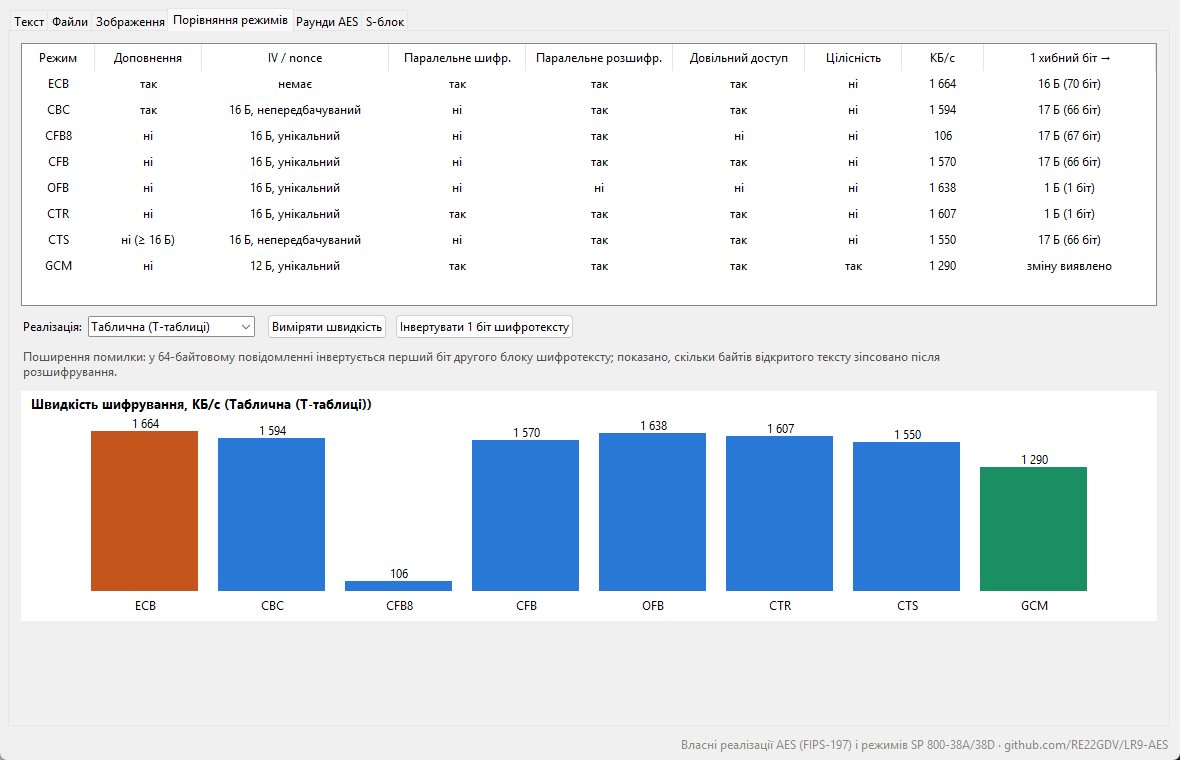
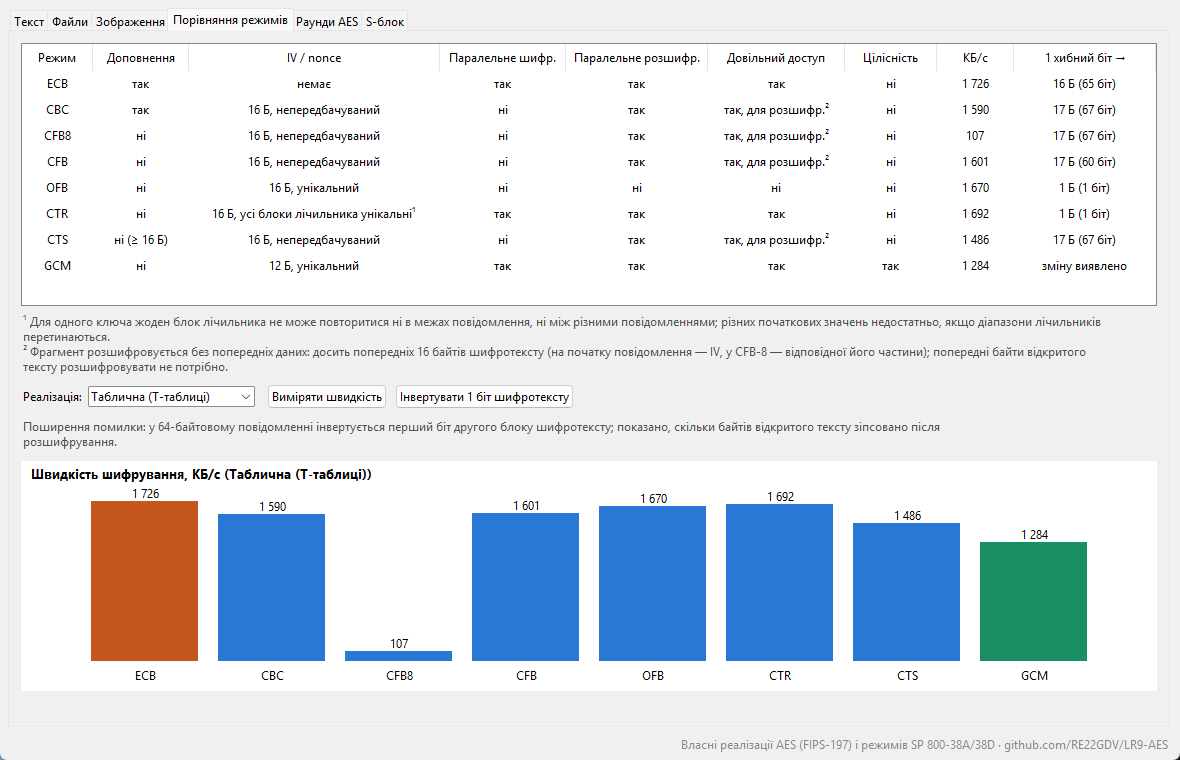
Фіксований 16-байтовий тег GCM, уточнено таблицю властивостей режимів
- gcm_decrypt перевіряє довжину тегу до порівняння: порожній або
  скорочений тег більше не приймається (SP 800-38D); gcm_encrypt
  відхиляє tag_len, відмінний від 16; тести на порожній, 1-, 12-,
  15- і 17-байтовий тег.
- Таблиця властивостей: IV у CFB-8/CFB-128 непередбачуваний; у CTR
  унікальними мають бути всі блоки лічильника для ключа; довільний
  доступ у CBC, CFB-8, CFB-128 і CTS — для розшифрування; примітки
  виведено у вкладці «Порівняння режимів» і в README.
- Обережніше формулювання результату перевірки строгого лавинного
  критерію; одне вікно GUI на модуль тестів.

diff --git a/src/aeslab/analysis.py b/src/aeslab/analysis.py
@@ -11,16 +11,25 @@ from .aes import AES
 PROPERTIES = {
     #        доповнення, IV/nonce, паралельне шифр., паралельне розшифр., довільний доступ, цілісність
     "ECB":  ("так", "немає", "так", "так", "так", "ні"),
-    "CBC":  ("так", "16 Б, непередбачуваний", "ні", "так", "так", "ні"),
-    "CFB8": ("ні", "16 Б, унікальний", "ні", "так", "ні", "ні"),
-    "CFB":  ("ні", "16 Б, унікальний", "ні", "так", "так", "ні"),
+    "CBC":  ("так", "16 Б, непередбачуваний", "ні", "так", "так, для розшифр.²", "ні"),
+    "CFB8": ("ні", "16 Б, непередбачуваний", "ні", "так", "так, для розшифр.²", "ні"),
+    "CFB":  ("ні", "16 Б, непередбачуваний", "ні", "так", "так, для розшифр.²", "ні"),
     "OFB":  ("ні", "16 Б, унікальний", "ні", "ні", "ні", "ні"),
-    "CTR":  ("ні", "16 Б, унікальний", "так", "так", "так", "ні"),
-    "CTS":  ("ні (≥ 16 Б)", "16 Б, непередбачуваний", "ні", "так", "так", "ні"),
+    "CTR":  ("ні", "16 Б, усі блоки лічильника унікальні¹", "так", "так", "так", "ні"),
+    "CTS":  ("ні (≥ 16 Б)", "16 Б, непередбачуваний", "ні", "так", "так, для розшифр.²", "ні"),
     "GCM":  ("ні", "12 Б, унікальний", "так", "так", "так", "так"),
 }
 PROPERTY_NAMES = ("Доповнення", "IV / nonce", "Паралельне шифрування",
                   "Паралельне розшифрування", "Довільний доступ", "Цілісність")
+# Примітки до позначок ¹ і ² у таблиці властивостей (SP 800-38A, розділ 6 і додаток B).
+PROPERTY_NOTES = (
+    "¹ Для одного ключа жоден блок лічильника не може повторитися ні в межах "
+    "повідомлення, ні між різними повідомленнями; різних початкових значень "
+    "недостатньо, якщо діапазони лічильників перетинаються.",
+    "² Фрагмент розшифровується без попередніх даних: досить попередніх 16 байтів "
+    "шифротексту (на початку повідомлення — IV, у CFB-8 — відповідної його "
+    "частини); попередні байти відкритого тексту розшифровувати не потрібно.",
+)
 
 
 def hamming(a, b) -> int:

diff --git a/src/aeslab/gui.py b/src/aeslab/gui.py
@@ -44,10 +44,10 @@ MODE_TITLES = {
 MODE_NOTES = {
     "ECB": "Однакові блоки відкритого тексту дають однакові блоки шифротексту — структура даних видна.",
     "CBC": "Потрібен непередбачуваний IV. Без MAC зміни шифротексту не виявляються.",
-    "CFB8": "Потоковий режим без доповнення; помилка зачіпає ще 16 наступних байтів.",
-    "CFB": "Потоковий режим без доповнення; nonce/IV не можна повторювати.",
+    "CFB8": "Потоковий режим без доповнення; IV непередбачуваний, помилка зачіпає ще 16 байтів.",
+    "CFB": "Потоковий режим без доповнення; потрібен непередбачуваний IV.",
     "OFB": "Ключовий потік не залежить від даних; повторний IV розкриває XOR текстів.",
-    "CTR": "Блоки незалежні: можна шифрувати паралельно й читати з будь-якого місця.",
+    "CTR": "Блоки незалежні, але для ключа жоден блок лічильника не повторюється, і між повідомленнями теж.",
     "CTS": "Довжина шифротексту дорівнює довжині тексту (не менше 16 байтів).",
     "GCM": "Автентифіковане шифрування: будь-яка зміна шифротексту виявляється.",
 }
@@ -553,13 +553,15 @@ class CompareTab(ttk.Frame):
         heads = ("Режим", "Доповнення", "IV / nonce", "Паралельне шифр.",
                  "Паралельне розшифр.", "Довільний доступ", "Цілісність",
                  "КБ/с", "1 хибний біт →")
-        widths = (60, 95, 175, 125, 135, 120, 85, 70, 160)
+        widths = (60, 85, 240, 115, 130, 125, 80, 65, 130)
         for c, h, w in zip(cols, heads, widths):
             self.tree.heading(c, text=h)
             self.tree.column(c, width=w, anchor="center")
         for m in modes.MODES:
             self.tree.insert("", "end", iid=m, values=(m,) + analysis.PROPERTIES[m] + ("—", "—"))
         self.tree.pack(fill="x")
+        ttk.Label(self, text="\n".join(analysis.PROPERTY_NOTES), foreground="#52514e",
+                  wraplength=1100, justify="left").pack(anchor="w", pady=(6, 0))
         bar = ttk.Frame(self)
         bar.pack(fill="x", pady=8)
         ttk.Label(bar, text="Реалізація:").pack(side="left")

diff --git a/src/aeslab/modes.py b/src/aeslab/modes.py
@@ -278,20 +278,29 @@ def _inc32_stream(cipher, j0: int, length: int) -> bytes:
     return bytes(out[:length])
 
 
+# Довжина тегу фіксована: SP 800-38D вимагає перевіряти заздалегідь визначену
+# довжину, інакше порожній або скорочений тег пройшов би порівняння префікса.
+GCM_TAG_LEN = 16
+
+
 def gcm_encrypt(cipher, nonce: bytes, data: bytes, aad: bytes = b"",
-                tag_len: int = 16) -> tuple[bytes, bytes]:
+                tag_len: int = GCM_TAG_LEN) -> tuple[bytes, bytes]:
+    if tag_len != GCM_TAG_LEN:
+        raise ValueError(f"підтримано лише {GCM_TAG_LEN}-байтовий тег GCM")
     gh, j0 = _gcm_setup(cipher, nonce)
     ct = _xor(data, _inc32_stream(cipher, j0, len(data)))
     s = gh.digest(aad, ct)
     tag = _xor(cipher.encrypt_block(j0.to_bytes(BLOCK, "big")), s.to_bytes(BLOCK, "big"))
-    return ct, tag[:tag_len]
+    return ct, tag
 
 
 def gcm_decrypt(cipher, nonce: bytes, data: bytes, tag: bytes, aad: bytes = b"") -> bytes:
+    if len(tag) != GCM_TAG_LEN:
+        raise AuthenticationError(f"тег GCM має містити {GCM_TAG_LEN} байтів")
     gh, j0 = _gcm_setup(cipher, nonce)
     s = gh.digest(aad, data)
     expected = _xor(cipher.encrypt_block(j0.to_bytes(BLOCK, "big")), s.to_bytes(BLOCK, "big"))
-    if not hmac.compare_digest(expected[:len(tag)], tag):
+    if not hmac.compare_digest(expected, tag):
         raise AuthenticationError("тег GCM не збігся")
     return _xor(data, _inc32_stream(cipher, j0, len(data)))
 
@@ -350,7 +359,7 @@ def decrypt(mode: str, cipher, iv: bytes, data: bytes, aad: bytes = b"") -> byte
     if mode == "CTS":
         return cts_decrypt(cipher, iv, data)
     if mode == "GCM":
-        if len(data) < 16:
+        if len(data) < GCM_TAG_LEN:
             raise AuthenticationError("шифротекст GCM коротший за тег")
-        return gcm_decrypt(cipher, iv, data[:-16], data[-16:], aad)
+        return gcm_decrypt(cipher, iv, data[:-GCM_TAG_LEN], data[-GCM_TAG_LEN:], aad)
     raise ValueError(f"невідомий режим {mode!r}")

diff --git a/tests/test_modes.py b/tests/test_modes.py
@@ -107,6 +107,29 @@ def test_gcm_detects_any_change() -> None:
         modes.decrypt("GCM", c, bytes(11) + b"\x01", ct, aad)
 
 
+def test_gcm_rejects_short_tags() -> None:
+    """Порожній або скорочений тег не приймається, навіть якщо це префікс правильного."""
+    c, nonce, aad = FastAES(bytes(range(16))), bytes(12), b"header"
+    ct, tag = modes.gcm_encrypt(c, nonce, b"PAY 100 UAH to account 42", aad)
+    assert len(tag) == modes.GCM_TAG_LEN == 16
+    damaged = bytes([ct[0] ^ 1]) + ct[1:]
+    for short in (b"", tag[:1], tag[:12], tag[:15]):
+        for body in (ct, damaged):
+            with pytest.raises(modes.AuthenticationError):
+                modes.gcm_decrypt(c, nonce, body, short, aad)
+    with pytest.raises(modes.AuthenticationError):
+        modes.gcm_decrypt(c, nonce, ct, tag + b"\x00", aad)
+    with pytest.raises(modes.AuthenticationError):                # без тегу взагалі
+        modes.decrypt("GCM", c, nonce, tag[:15], aad)
+    assert modes.gcm_decrypt(c, nonce, ct, tag, aad) == b"PAY 100 UAH to account 42"
+
+
+@pytest.mark.parametrize("tag_len", [0, 1, 4, 8, 12, 15, 17])
+def test_gcm_encrypt_accepts_only_16_byte_tag(tag_len: int) -> None:
+    with pytest.raises(ValueError):
+        modes.gcm_encrypt(FastAES(bytes(16)), bytes(12), b"data", tag_len=tag_len)
+
+
 def test_gcm_multiplication_properties() -> None:
     rng = random.Random(3)
     one = 1 << 127                                     # одиниця поля в порядку бітів GCM

diff --git a/tests/test_container_analysis.py b/tests/test_container_analysis.py
@@ -138,3 +138,12 @@ def test_byte_statistics() -> None:
     assert zeros["entropy"] == 0.0 and zeros["distinct_blocks"] == 1
     rnd = analysis.byte_statistics(random.Random(1).randbytes(65536))
     assert rnd["entropy"] > 7.99 and rnd["distinct_blocks"] == rnd["blocks"]
+
+
+def test_property_table_notes() -> None:
+    """Кожна позначка в таблиці властивостей має примітку, і навпаки."""
+    marks = {ch for row in analysis.PROPERTIES.values() for cell in row for ch in cell if ch in "¹²³"}
+    assert marks == {note[0] for note in analysis.PROPERTY_NOTES}
+    assert len(analysis.PROPERTY_NAMES) == len(analysis.PROPERTIES["ECB"])
+    for m in ("CBC", "CFB8", "CFB", "CTS"):                  # SP 800-38A: IV непередбачуваний
+        assert analysis.PROPERTIES[m][1] == "16 Б, непередбачуваний"

diff --git a/tests/test_cross_and_gui.py b/tests/test_cross_and_gui.py
@@ -40,14 +40,15 @@ def test_csharp_ctr_matches_python() -> None:
         assert _run(["ctr", key.hex(), ctr.hex(), data.hex() or ""]) == expected
 
 
-@pytest.fixture
+@pytest.fixture(scope="module")
 def app():
+    # Одне вікно на модуль: повторне створення Tk у Windows зрідка падає з TclError.
     tk = pytest.importorskip("tkinter")
     try:
         from aeslab.gui import AESStudio
         window = AESStudio()
-    except tk.TclError:
-        pytest.skip("немає графічного середовища")
+    except tk.TclError as error:
+        pytest.skip(f"немає графічного середовища ({error})")
     window.withdraw()
     yield window
     window.destroy()

diff --git a/csharp/AesCtrDemo/Program.cs b/csharp/AesCtrDemo/Program.cs
@@ -39,7 +39,9 @@ public static class Program
     private static int Demo(string text)
     {
         byte[] key = RandomNumberGenerator.GetBytes(32);      // AES-256
-        byte[] counter = RandomNumberGenerator.GetBytes(16);  // унікальний для кожного повідомлення
+        // Випадковий 128-бітовий лічильник: діапазони блоків лічильника різних
+        // повідомлень під одним ключем практично не перетинаються.
+        byte[] counter = RandomNumberGenerator.GetBytes(16);
         byte[] plaintext = Encoding.UTF8.GetBytes(text);
 
         byte[] ciphertext = AesCtr.Encrypt(plaintext, key, counter);

diff --git a/experiments/run_experiments.py b/experiments/run_experiments.py
@@ -757,6 +757,7 @@ def main() -> int:
         "cost": exp_cost(args.quick),
         "determinism": exp_determinism(),
         "properties": {m: dict(zip(analysis.PROPERTY_NAMES, v)) for m, v in analysis.PROPERTIES.items()},
+        "property_notes": list(analysis.PROPERTY_NOTES),
     }
     results["elapsed_s"] = round(time.perf_counter() - t0, 1)
     write_summary(results)
